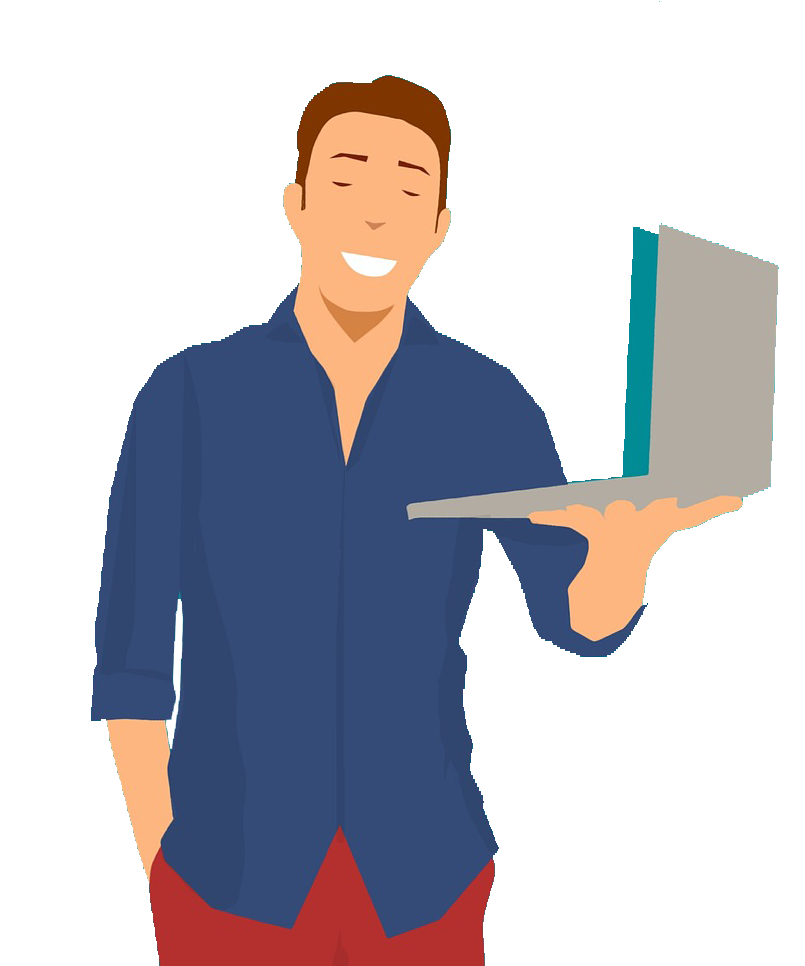
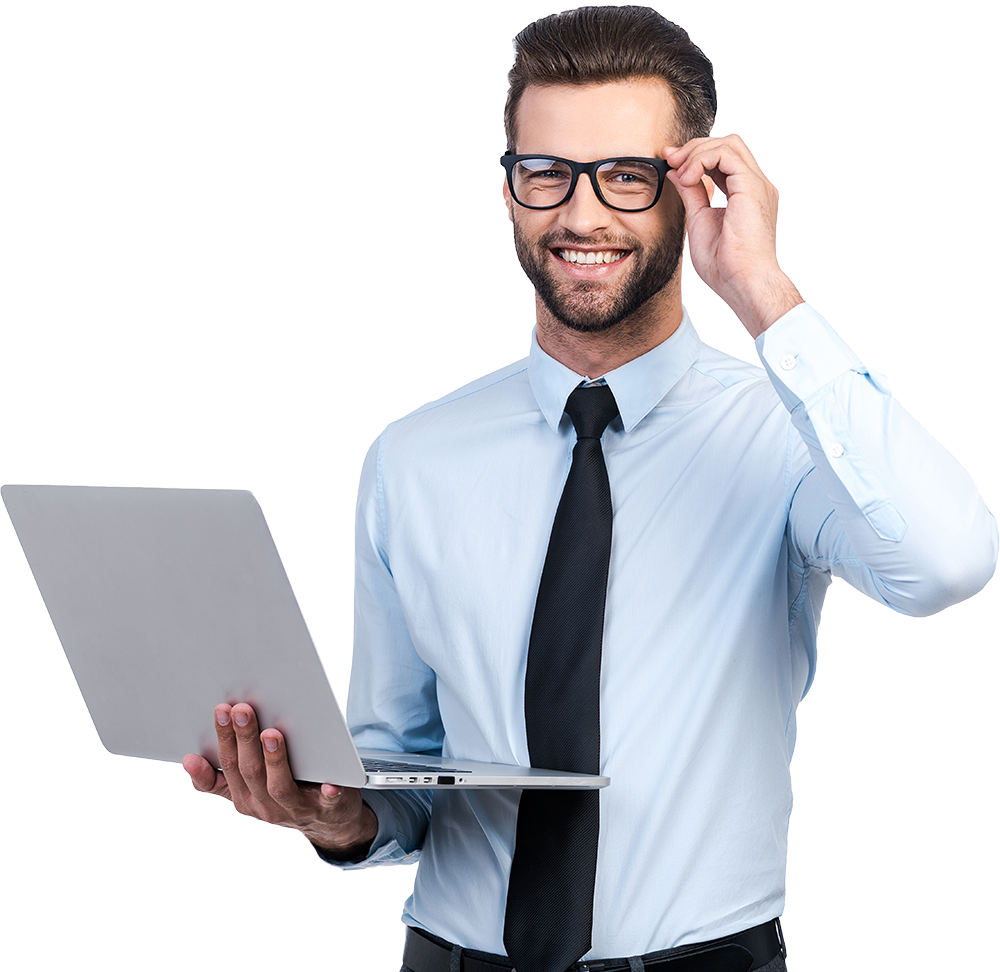
Footer sekce & další menší úpravy a změna images.
Vytvořena kompletní Footer sekce s responsive designem pro všechny zařízení, menší celkové úpravy. Změna všech images krom home.png

diff --git a/index.html b/index.html
@@ -26,10 +26,10 @@
               <a href="#about" class="nav__link">About</a>
             </li>
             <li class="nav__item">
-              <a href="#pricing" class="nav__link">Pricing</a>
+              <a href="/pricing" class="nav__link">Pricing</a>
             </li>
             <li class="nav__item">
-              <a href="#" class="button button--flex">
+              <a href="/register" class="button button--flex">
                 <span class="button--flex"> Sign Up </span>
               </a>
             </li>
@@ -63,7 +63,7 @@
                 Store, access, and share your data effortlessly, all in one
                 place.
               </p>
-              <a href="#" class="button button--flex">
+              <a href="/register" class="button button--flex">
                 <span class="button--flex"> Sign Up </span>
               </a>
               <a href="#" class="sec-button button--flex">Learn more..</a>
@@ -150,13 +150,83 @@
               cloud services.
             </h2>
             <p class="goto__description">Get it now, and secure your data.</p>
-            <a href="#" class="button button--flex"> Pricing</a>
+            <a href="/pricing" class="button button--flex">Pricing</a>
           </div>
 
           <img src="assets/img/goto.png" alt="" class="goto__img" />
         </div>
       </section>
     </main>
+
+    <footer class="footer section">
+      <div class="footer__container container grid">
+          <div class="footer__content">
+              <h3 class="footer__title">Quick Links</h3>
+
+              <ul class="footer__links">
+                  <li>
+                      <a href="#home" class="footer__link">Home</a>
+                  </li>
+                  <li>
+                      <a href="#" class="footer__link">News</a>
+                  </li>
+                  <li>
+                      <a href="#specs" class="footer__link">Specs</a>
+                  </li>
+                  <li>
+                      <a href="#about" class="footer__link">About</a>
+                  </li>
+              </ul>
+          </div>
+
+          <div class="footer__content">
+              <h3 class="footer__title">Support</h3>
+
+              <ul class="footer__links">
+                  <li>
+                      <a href="/register" class="footer__link">Sign Up</a>
+                  </li>
+                  <li>
+                      <a href="#" class="footer__link">Help Centre</a>
+                  </li>
+                  <li>
+                      <a href="#" class="footer__link">Community</a>
+                  </li>
+                  <li>
+                      <a href="#" class="footer__link">Security</a>
+                  </li>
+              </ul>
+          </div>
+
+          <div class="footer__content">
+              <form action="" class="footer__form">
+                  <input type="email" placeholder="Email" class="footer__input">
+                  <button class="newsletter-button button--flex">
+                    <i class="fa-regular fa-paper-plane button__icon"></i></i> Subscribe
+                  </button>
+              </form>
+
+              <div class="footer__social">
+                  <a href="https://www.facebook.com/" target="_blank" class="footer__social-link">
+                    <i class="fa-brands fa-facebook"></i>
+                  </a>
+                  <a href="https://www.instagram.com/" target="_blank" class="footer__social-link">
+                    <i class="fa-brands fa-instagram"></i>
+                  </a>
+                  <a href="https://twitter.com/" target="_blank" class="footer__social-link">
+                    <i class="fa-brands fa-x-twitter"></i>
+                  </a>
+                  <a href="https://github.com/dsupolik" target="_blank" class="footer__social-link">
+                    <i class="fa-brands fa-github"></i>
+                  </a>
+              </div>
+          </div>
+      </div>
+
+      <p class="footer__copy">
+          <a href="#" target="_blank" class="footer__copy-link">&#169; David Supolík. All right reserved</a>
+      </p>
+  </footer>
 
     <script src="/assets/js/main.js"></script>
   </body>

diff --git a/assets/css/styles.css b/assets/css/styles.css
@@ -368,6 +368,27 @@ img {
   transform: scale(1.1);
 }
 
+.newsletter-button {
+  display: inline-block;
+  background-color: var(--button-color);
+  color: var(--white-color);
+  text-transform: uppercase;
+  padding: 0.5rem 1.25rem;
+  border-radius: 0.5rem;
+  transition: 0.3s;
+  -webkit-box-shadow: 0px 5px 7px 3px rgba(0, 0, 0, 0.75);
+  -moz-box-shadow: 0px 5px 7px 3px rgba(0, 0, 0, 0.75);
+  box-shadow: 0px 5px 7px 3px rgba(0, 0, 0, 0.75);
+}
+
+.newsletter-button:hover {
+  background-color: var(--button-color-alt);
+}
+
+.newsletter-button i {
+  padding-right: 0.2rem;
+}
+
 .button--flex {
   display: inline-flex;
   align-items: center;
@@ -422,8 +443,8 @@ img {
 .specs__img {
   width: 250px;
   position: absolute;
-  top: 2rem;
-  right: -4rem;
+  right: -1rem;
+  top: 5.938rem;
 }
 
 /*!=============== ABOUT US ===============*/
@@ -472,6 +493,96 @@ img {
   right: -11rem;
 }
 
+/*!=============== FOOTER ===============*/
+.footer__container {
+  grid-template-columns: repeat(auto-fit, minmax(220px, 1fr));
+  row-gap: 2rem;
+}
+
+.footer__logo {
+  display: flex;
+  font-size: 2.5rem;
+  color: var(--white-color);
+  text-transform: uppercase;
+  font-weight: var(--font-semi-bold);
+}
+
+.footer__logo i {
+  font-size: 3.5rem;
+  padding-right: 0.4rem;
+}
+
+.footer__title {
+  font-size: var(--h3-font-size);
+  font-weight: var(--font-medium);
+  margin-bottom: var(--mb-1);
+}
+
+.footer__links {
+  display: flex;
+  flex-direction: column;
+  row-gap: 0.5rem;
+}
+
+.footer__link {
+  color: var(--text-color);
+  transition: 0.3s;
+}
+
+.footer__link:hover {
+  color: var(--button-color);
+}
+
+.footer__form {
+  display: flex;
+  column-gap: 0.5rem;
+  background-color: var(--container-color);
+  padding: 0.5rem 0.75rem;
+  border-radius: 0.5rem;
+  margin-bottom: var(--mb-2);
+}
+
+.footer__input {
+  background-color: var(--container-color);
+  width: 90%;
+  color: var(--white-color);
+}
+
+.footer__input::placeholder {
+  color: var(--text-color);
+  font-size: var(--normal-font-size);
+  font-family: var(--body-font);
+}
+
+.footer__social {
+  display: flex;
+  column-gap: 1.25rem;
+}
+
+.footer__social-link {
+  display: inline-flex;
+  color: var(--white-color);
+  background-color: var(--container-color);
+  padding: 0.5rem;
+  border-radius: 0.25rem;
+  font-size: 1rem;
+  transition: 0.3s;
+}
+
+.footer__social-link:hover {
+  background-color: var(--button-color);
+}
+
+.footer__copy {
+  margin-top: 5rem;
+  text-align: center;
+}
+
+.footer__copy-link {
+  font-size: var(--smaller-font-size);
+  color: var(--text-color-light);
+}
+
 /*!=============== MEDIA QUERIES ===============*/
 /*? For small devices */
 @media screen and (max-width: 340px) {
@@ -518,6 +629,16 @@ img {
     padding-top: 2rem;
   }
 }
+@media screen and (max-width: 767px) {
+  .footer__container {
+    grid-template-columns: repeat(2, 1fr);
+    grid-template-rows: repeat(2, 1fr);
+  }
+
+  .footer__content:nth-of-type(3) {
+    grid-area: 2 / 1 / 3 / 3;
+  }
+}
 
 /*? For small devices - extra 2 */
 @media screen and (min-width: 407px) {
@@ -534,7 +655,6 @@ img {
 @media screen and (max-width: 575px) {
   .goto__img {
     width: 150px;
-    top: 2rem;
     right: 2rem;
   }
 }
@@ -543,7 +663,7 @@ img {
 @media screen and (max-width: 520px) {
   .goto__img {
     width: 100px;
-    top: 3.2rem;
+    top: 5rem;
     right: 2rem;
   }
 }
@@ -659,6 +779,9 @@ img {
   .goto__description {
     margin-bottom: var(--mb-2);
   }
+  .footer__container {
+    grid-template-columns: 0.7fr 0.7fr 1fr;
+  }
 }
 
 /*? For large devices */
@@ -683,5 +806,11 @@ img {
   }
   .goto__img {
     width: 300px;
+  }
+  .footer__container {
+    padding-top: 3rem;
+  }
+  .footer__copy {
+    margin-top: 9rem;
   }
 }
